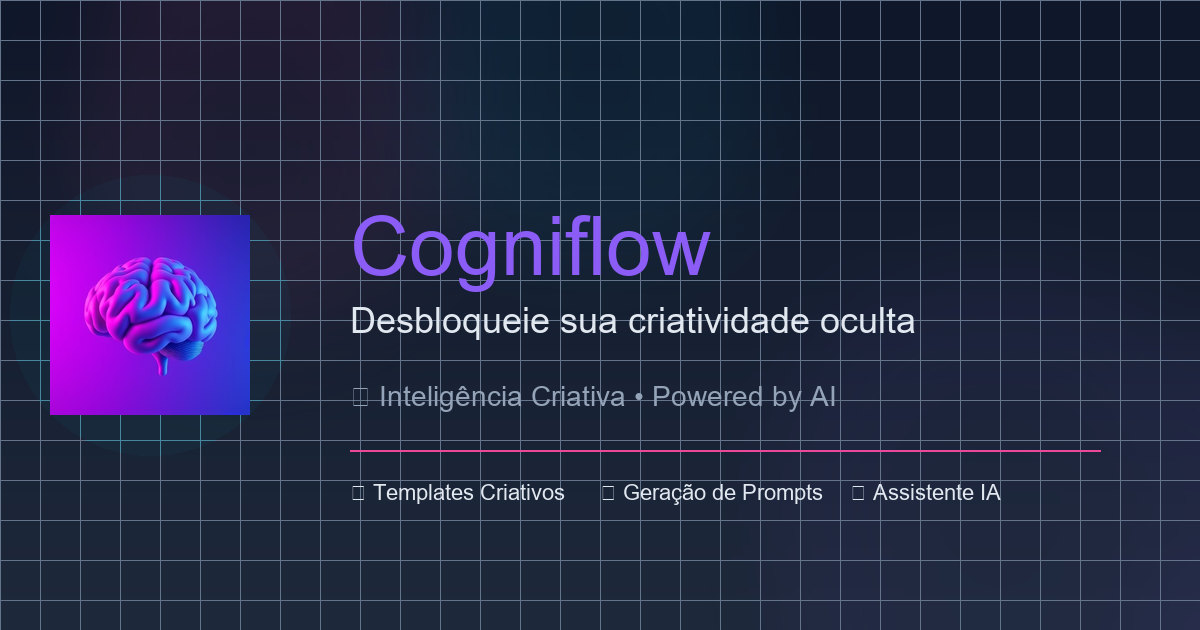
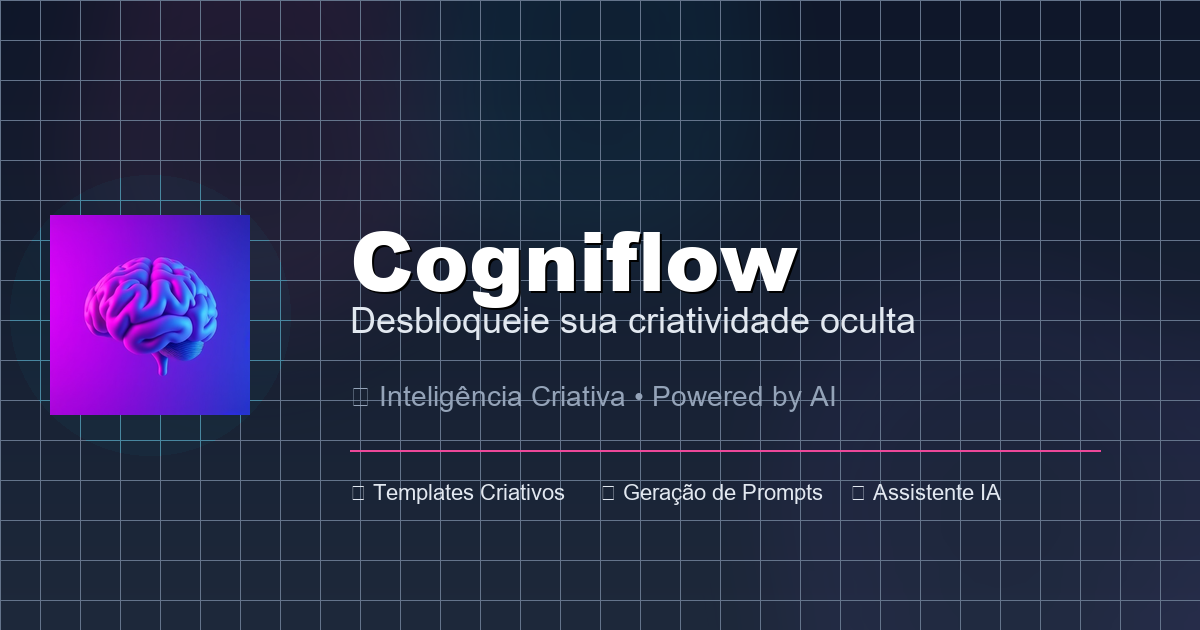
update fix og image

Changed region(s): [[0.2775, 0.3317, 0.6783, 0.5127]]

diff --git a/app/layout.tsx b/app/layout.tsx
@@ -12,6 +12,7 @@ const inter = Inter({
 });
 
 const seo = getDefaultSEO();
+const siteUrl = process.env.NEXT_PUBLIC_SITE_URL || 'https://cogniflow.app';
 
 export const metadata: Metadata = {
   title: seo.title,
@@ -28,9 +29,30 @@ export const metadata: Metadata = {
   ],
   authors: [{ name: 'Cogniflow Team' }],
   creator: 'Cogniflow',
-  metadataBase: new URL(process.env.NEXT_PUBLIC_SITE_URL || 'https://cogniflow.app'),
-  openGraph: seo.openGraph,
-  twitter: seo.twitter,
+  metadataBase: new URL(siteUrl),
+  openGraph: {
+    title: 'Cogniflow - Inteligência Criativa',
+    description: 'Transforme suas ideias em realidade com IA. Gere prompts, templates e estruture conceitos criativos.',
+    url: siteUrl,
+    siteName: 'Cogniflow',
+    images: [
+      {
+        url: '/images/og-image.png',
+        width: 1200,
+        height: 630,
+        alt: 'Cogniflow - Plataforma de Inteligência Criativa',
+      },
+    ],
+    locale: 'pt_BR',
+    type: 'website',
+  },
+  twitter: {
+    card: 'summary_large_image',
+    title: 'Cogniflow - Inteligência Criativa',
+    description: 'Transforme suas ideias em realidade com IA. Gere prompts, templates e estruture conceitos criativos.',
+    images: ['/images/og-image.png'],
+    creator: '@cogniflow',
+  },
   robots: {
     index: true,
     follow: true,

diff --git a/DEPLOY_GUIDE.md b/DEPLOY_GUIDE.md
@@ -1,0 +1,107 @@
+# 🚀 Guia de Deploy - Configurar Open Graph no Vercel
+
+## Problema Identificado
+A imagem Open Graph não aparece porque a variável `NEXT_PUBLIC_SITE_URL` está como `undefined` no Vercel.
+
+URL atual (incorreta): `https://cogniflow.app/undefined/images/og-image.png`
+URL correta: `https://cogniflow-beta.vercel.app/images/og-image.png`
+
+## ✅ Solução: Configurar Variável de Ambiente no Vercel
+
+### Passo 1: Acessar o Dashboard do Vercel
+1. Acesse: https://vercel.com/
+2. Login com sua conta do GitHub (Felipewv93)
+3. Selecione o projeto **cogniflow-beta**
+
+### Passo 2: Configurar Variável de Ambiente
+1. Clique em **Settings** (Configurações)
+2. Clique em **Environment Variables** (Variáveis de Ambiente)
+3. Adicione a seguinte variável:
+
+   **Name (Nome):**
+   ```
+   NEXT_PUBLIC_SITE_URL
+   ```
+
+   **Value (Valor):**
+   ```
+   https://cogniflow-beta.vercel.app
+   ```
+
+   **Environment (Ambiente):**
+   - ✅ Production
+   - ✅ Preview
+   - ✅ Development
+
+4. Clique em **Save** (Salvar)
+
+### Passo 3: Fazer Redeploy
+Após salvar a variável, você precisa fazer um novo deploy:
+
+**Opção 1 - Pelo Dashboard:**
+1. Vá em **Deployments** (Implantações)
+2. Clique nos 3 pontinhos do último deployment
+3. Clique em **Redeploy** (Reimplantar)
+
+**Opção 2 - Pelo Git (Recomendado):**
+```bash
+git add .
+git commit -m "Add production environment variables"
+git push origin master
+```
+
+### Passo 4: Verificar
+Após o deploy terminar (aguarde 1-2 minutos):
+
+1. **Teste as meta tags:**
+   ```bash
+   node scripts/check-og-tags.js https://cogniflow-beta.vercel.app/
+   ```
+
+2. **Teste no validador Open Graph:**
+   - Acesse: https://www.opengraph.xyz/
+   - Cole: `https://cogniflow-beta.vercel.app`
+   - Verifique se a imagem aparece
+
+3. **Limpe cache do WhatsApp/Facebook:**
+   - Acesse: https://developers.facebook.com/tools/debug/
+   - Cole: `https://cogniflow-beta.vercel.app`
+   - Clique em "Scrape Again" (Raspar Novamente)
+
+### Passo 5: Testar no WhatsApp
+Agora quando você colar o link no WhatsApp, a imagem do logo deverá aparecer! 🎉
+
+## 📝 Arquivos Atualizados
+- ✅ `app/layout.tsx` - Meta tags Open Graph corrigidas
+- ✅ `public/images/og-image.png` - Imagem gerada com logo
+- ✅ `.env.production` - Variável de produção configurada
+- ✅ `scripts/check-og-tags.js` - Script para verificar meta tags
+
+## 🔍 Troubleshooting
+
+### A imagem ainda não aparece?
+1. Verifique se a variável foi salva corretamente no Vercel
+2. Confirme que o redeploy foi feito
+3. Limpe o cache do WhatsApp/Facebook
+4. Aguarde 5-10 minutos (WhatsApp faz cache agressivo)
+
+### Erro "undefined" continua?
+- A variável `NEXT_PUBLIC_SITE_URL` precisa estar EXATAMENTE como:
+  ```
+  NEXT_PUBLIC_SITE_URL=https://cogniflow-beta.vercel.app
+  ```
+- **SEM barra** no final
+- **SEM espaços** antes ou depois
+
+### Precisa de ajuda?
+Execute o diagnóstico:
+```bash
+node scripts/check-og-tags.js https://cogniflow-beta.vercel.app/
+```
+
+A saída deve mostrar:
+```
+og:image: https://cogniflow-beta.vercel.app/images/og-image.png
+```
+
+Se mostrar `/undefined/`, a variável não foi configurada corretamente.
